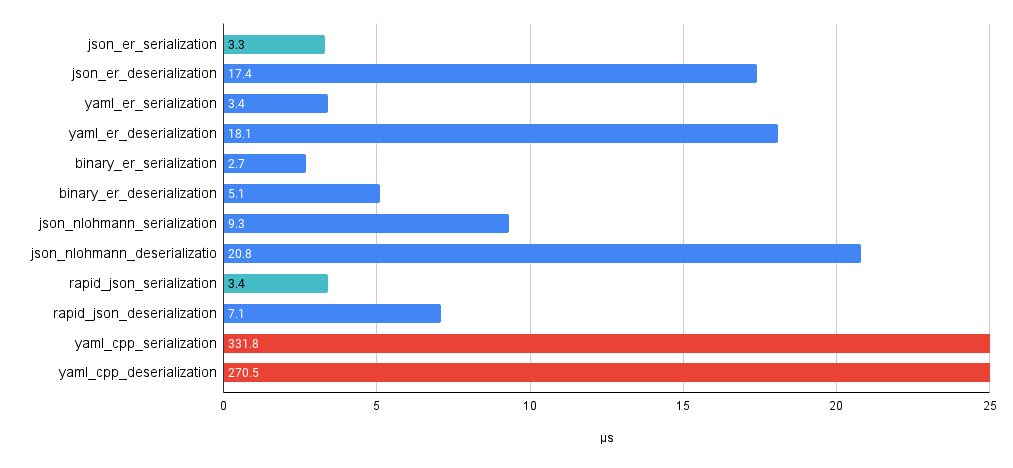
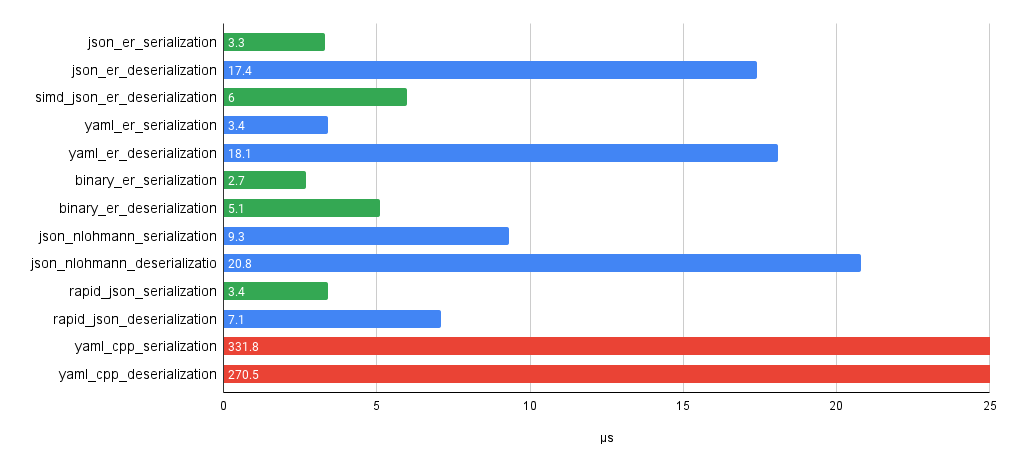
Add simd_json deserialization provider

Changed region(s): [[0.0306, 0.0598, 0.9793, 0.8077]]

diff --git a/library/src/serialization/json/simd_json.cpp b/library/src/serialization/json/simd_json.cpp
@@ -1,0 +1,134 @@
+#include "er/serialization/simd_json.h"
+
+#include <string_view>
+
+#include "../define_retry.h"
+#include "er/reflection/reflection.h"
+#include "er/tools/format.h"
+#include "er/type_info/type_info.h"
+#include "er/types/all_types.h"
+#include "er/variable/box.h"
+#include "simdjson.h"
+
+using namespace er::serialization;
+using namespace simdjson;
+
+Expected<None> deserialize_recursive(TypeInfo* info, dom::element elem) {
+  auto t = elem.type();
+
+  switch (t) {
+    case dom::element_type::BOOL:
+      if (info->is<Bool>()) {
+        info->unsafe_get<Bool>().set(elem.get_bool());
+      } else {
+        return Error(format("Cannot deserialize number to {}", info->get_kind_str()));
+      }
+      break;
+    case dom::element_type::INT64:
+      if (info->is<Integer>()) {
+        auto i = info->unsafe_get<Integer>();
+        if (i.is_signed()) {
+          i.set_signed(elem.get_int64());
+        } else {
+          i.set_unsigned(elem.get_uint64());
+        }
+      } else {
+        return Error(format("Cannot deserialize number to {}", info->get_kind_str()));
+      }
+      break;
+    case dom::element_type::DOUBLE:
+      if (info->is<Floating>()) {
+        info->unsafe_get<Floating>().set(elem.get_double());
+      } else {
+        return Error(format("Cannot deserialize double to {}", info->get_kind_str()));
+      }
+      break;
+    case dom::element_type::STRING:
+      if (info->is<String>()) {
+        info->unsafe_get<String>().set(elem.get_string());
+      } else if (info->is<Enum>()) {
+        info->unsafe_get<Enum>().parse(elem.get_string());
+      } else {
+        return Error(format("Cannot deserialize string to {}", info->get_kind_str()));
+      }
+      break;
+    case dom::element_type::ARRAY:
+      if (info->is<Array>()) {
+        auto a = info->unsafe_get<Array>();
+
+        Box box(a.nested_type());
+        auto entry_info = reflection::reflect(box.var());
+
+        auto i = 0;
+        for (auto&& e : elem.get_array()) {
+          __retry(deserialize_recursive(&entry_info, e));
+
+          auto item = a.at(i).unwrap();
+          reflection::copy(item, box.var());
+          i++;
+        }
+      } else if (info->is<Sequence>()) {
+        auto s = info->unsafe_get<Sequence>();
+        s.clear();
+
+        Box box(s.nested_type());
+        auto entry_info = reflection::reflect(box.var());
+
+        for (auto&& e : elem.get_array()) {
+          __retry(deserialize_recursive(&entry_info, e));
+
+          s.push(box.var());
+        }
+      } else if (info->is<Map>()) {
+        auto m = info->unsafe_get<Map>();
+        m.clear();
+
+        Box key_box(m.key_type());
+        Box val_box(m.val_type());
+
+        auto key_info = reflection::reflect(key_box.var());
+        auto val_info = reflection::reflect(val_box.var());
+        for (auto&& entry : elem.get_array()) {
+          auto key = entry["key"].value_unsafe();
+          auto val = entry["val"].value_unsafe();
+
+          __retry(deserialize_recursive(&key_info, key));
+          __retry(deserialize_recursive(&val_info, val));
+
+          m.insert(key_box.var(), val_box.var());
+        }
+      } else {
+        return Error(format("Cannot deserialize to {}", info->get_kind_str()));
+      }
+      break;
+    case dom::element_type::OBJECT:
+      if (info->is<Object>()) {
+        auto o = info->unsafe_get<Object>();
+
+        for (auto [k, v] : elem.get_object()) {
+          auto ex = o.get_field(k);
+          __retry(ex);
+
+          auto field = ex.unwrap();
+          auto field_info = reflection::reflect(field.var());
+
+          __retry(deserialize_recursive(&field_info, v));
+        }
+      } else {
+        return Error(format("Expected Object but {} found", info->get_kind_str()));
+      }
+      break;
+    default:
+      // found null, do nothing
+      break;
+  }
+  return None();
+}
+
+Expected<None> simd_json::deserialize(Var var, std::string_view str) {
+  dom::parser parser;
+  dom::element elem = parser.parse(padded_string(str));
+
+  auto info = reflection::reflect(var);
+  return deserialize_recursive(&info, elem);
+}

diff --git a/tests/serialization.cpp b/tests/serialization.cpp
@@ -5,6 +5,7 @@
 
 #include "er/serialization/binary.h"
 #include "er/serialization/json.h"
+#include "er/serialization/simd_json.h"
 #include "er/serialization/yaml.h"
 #include "er/tools/format.h"
 #include "generated/reflection.h"
@@ -82,6 +83,17 @@ TEST(SerializationJson, Thresholds) {
   compare_tresholds(struct1, struct2);
 }
 
+#ifdef USE_SIMD_JSON
+TEST(SerializationSimdJson, Thresholds) {
+  Tresholds struct1;
+
+  auto str = er::serialization::json::to_string(&struct1).unwrap();
+  auto struct2 = er::serialization::simd_json::from_string<Tresholds>(str).unwrap();
+
+  compare_tresholds(struct1, struct2);
+}
+#endif
+
 TEST(SerializationYaml, Thresholds) {
   Tresholds struct1;
 
@@ -127,6 +139,15 @@ TEST(SerializationJson, BackAndForth) {
   auto struct3 = er::serialization::json::from_stream<Various>(stream).unwrap();
 
   compare_various(struct1, struct3);
+}
+
+TEST(SerializationSimdJson, BackAndForth) {
+  auto struct1 = Various::make_default();
+
+  auto str = er::serialization::json::to_string(&struct1).unwrap();
+  auto struct2 = er::serialization::simd_json::from_string<Various>(str).unwrap();
+
+  compare_various(struct1, struct2);
 }
 
 TEST(SerializationYaml, BackAndForth) {

diff --git a/benchmarks/serialization.cpp b/benchmarks/serialization.cpp
@@ -8,6 +8,7 @@
 
 #include "er/serialization/binary.h"
 #include "er/serialization/json.h"
+#include "er/serialization/simd_json.h"
 #include "er/serialization/yaml.h"
 #include "generated/reflection.h"
 
@@ -88,6 +89,17 @@ static void json_er_deserialization(benchmark::State& state) {
   }
 }
 BENCHMARK(json_er_deserialization);
+
+#ifdef USE_SIMD_JSON
+static void simd_json_er_deserialization(benchmark::State& state) {
+  for (auto _ : state) {
+    auto profile = er::serialization::simd_json::from_string<UserProfile>(SetUp::json()).unwrap();
+
+    benchmark::DoNotOptimize(profile);
+  }
+}
+BENCHMARK(simd_json_er_deserialization);
+#endif
 
 static void yaml_er_serialization(benchmark::State& state) {
   auto profile = er::serialization::yaml::from_string<UserProfile>(SetUp::yaml()).unwrap();

diff --git a/library/include/er/serialization/simd_json.h b/library/include/er/serialization/simd_json.h
@@ -1,0 +1,30 @@
+#pragma once
+
+#include <istream>
+
+#include "er/expected.h"
+#include "er/variable/var.h"
+
+namespace er::serialization {
+
+#ifdef USE_SIMD_JSON
+
+struct simd_json {  // NOLINT namespace like name
+  template <typename T>
+  static Expected<T> from_string(std::string_view str) {
+    T obj;
+
+    auto exp = deserialize(Var(&obj), str);
+    if (exp.is_error()) {
+      return exp.error();
+    }
+    return obj;
+  }
+
+ private:
+  static Expected<None> deserialize(Var var, std::string_view str);
+};
+
+#endif
+
+}  // namespace er::serialization

diff --git a/library/include/er/type_info/type_info.h b/library/include/er/type_info/type_info.h
@@ -4,6 +4,7 @@
 #include <string_view>
 
 #include "er/expected.h"
+#include "er/tools/names.h"
 #include "er/variant/variant.h"
 
 // all variants
@@ -87,6 +88,10 @@ class TypeInfo : public BASE {
 
   [[nodiscard]] Kind get_kind() const {
     return static_cast<Kind>(variant_idx());
+  }
+
+  [[nodiscard]] std::string_view get_kind_str() const {
+    return match([](auto&& v) { return Names<typeof v>::get(); });
   }
 };
 

diff --git a/README.md b/README.md
@@ -51,6 +51,14 @@ One of the submodules is [vcpkg](https://github.com/microsoft/vcpkg) which manag
 > **Note:** The project version is obtaining by ```python3``` from ```vcpkg.json``` manifest file.  
 It will be installed at least as **gcc** dependency on Linux systems, otherwise please install it manually.
 
+After you have installed all dependencies you should made a decision do you wanna use [simdjson](https://github.com/simdjson/simdjson) for parsing or don't.  
+Native for the solution parser will be available anyway but it's slower though a bit more flexible in map parsing.  
+If for some reason you wanna reduce number of dependencies you can exclude ```simdjson``` via CMake option:
+
+```
+-DUSE_SIMD_JSON
+```
+
 ### Docker
 
 The repository also provides a ```Dockerfile``` which initializes ```Ubuntu 20.04``` environment, copy project files, builds it and runs tests on startup.
@@ -179,18 +187,16 @@ Please see ```example/main.cpp``` for more details.
 
 ## Performance
 
-I am still working on optimization of serialization and deserialization. But even now it is quite fast.  
 The repository includes ```benchmarks``` folder, feel free to check it on your own hardware.
 
-JSON on average **Core i7** laptop is faster then [nlohmann json](https://github.com/nlohmann/json) in both serialization and deserialization.
-
-Slower than [rapid json](https://github.com/Tencent/rapidjson) yet but still fast.
+JSON on average **Core i5** laptop is faster then [nlohmann json](https://github.com/nlohmann/json).
+Serialization is the same fast as [rapid json](https://github.com/Tencent/rapidjson), deserialization is little faster with ```simdjson``` parser and more then twice slower without.
 
 YAML is blazingly faster then [yaml-cpp](https://github.com/jbeder/yaml-cpp), if I did the benchmark right.
 
 > **Note:** Deserialization comparisson is not absolutely fair.  
-Other libraries do not convert string represented values to ```int```, ```float``` or ```bool``` and don't create instances of ```std::string``` until you call something like ```.get<int>()```.  
-Easy Reflection, on the other hand, provides ready-made object with all values within. And of course it takes some time.
+Other libraries not always convert string represented values to ```int```, ```float``` or ```bool``` and don't create instances of ```std::string``` until you call something like ```.get<int>()```.  
+Easy Reflection, on the other hand, provides ready-made object with all values within. And it's still fast despite it takes some time.
 
 ![Core i7 benchmarks](https://github.com/chocolacula/reflection_cpp/blob/main/benchmarks/chart.png?raw=true)
 
@@ -199,6 +205,7 @@ Easy Reflection, on the other hand, provides ready-made object with all values w
 - Better Windows support
 - Add smart pointers to supported types
 - Add more strings to supported types, test UTF-8 and wide strings
+- Optimize size of Expected<> in parsers
 - Test YAML parser extensively
 - Add parent class fields to serialized fields
 - Add support of user's template classes with different number of template arguments
